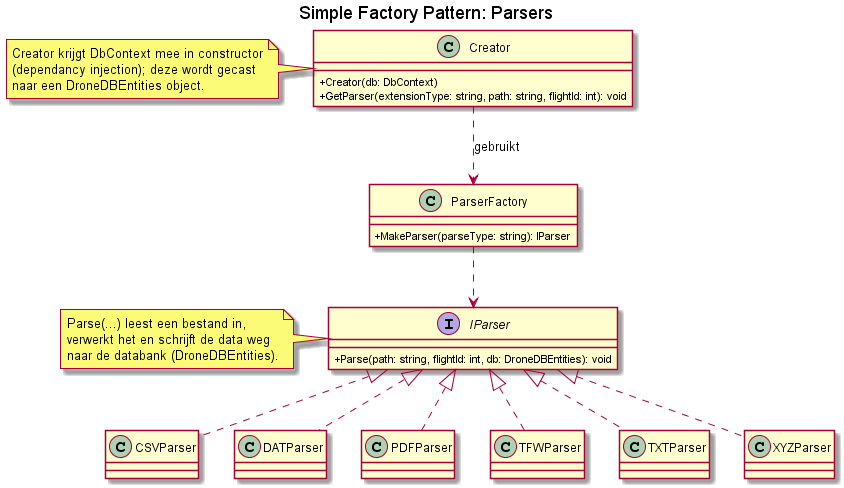
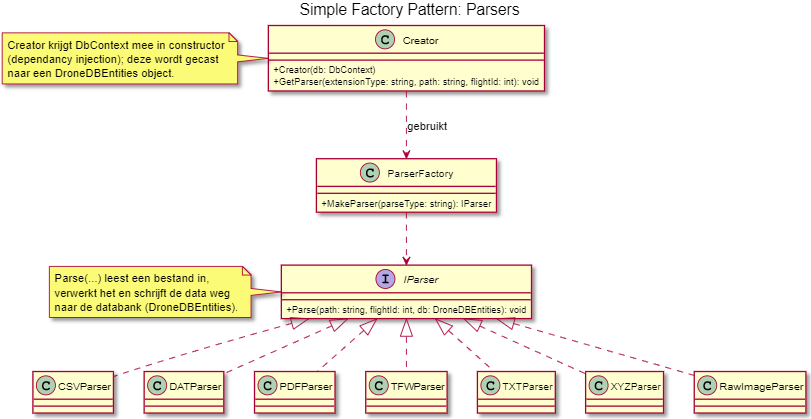
RawImageParser toegevoegd aan uml parsers

diff --git a/DroneWebApp/DroneWebApp/Models/sysdiagram.cs b/DroneWebApp/DroneWebApp/Models/sysdiagram.cs
@@ -1,0 +1,23 @@
+//------------------------------------------------------------------------------
+// <auto-generated>
+//     This code was generated from a template.
+//
+//     Manual changes to this file may cause unexpected behavior in your application.
+//     Manual changes to this file will be overwritten if the code is regenerated.
+// </auto-generated>
+//------------------------------------------------------------------------------
+
+namespace DroneWebApp.Models
+{
+    using System;
+    using System.Collections.Generic;
+    
+    public partial class sysdiagram
+    {
+        public string name { get; set; }
+        public int principal_id { get; set; }
+        public int diagram_id { get; set; }
+        public Nullable<int> version { get; set; }
+        public byte[] definition { get; set; }
+    }
+}
